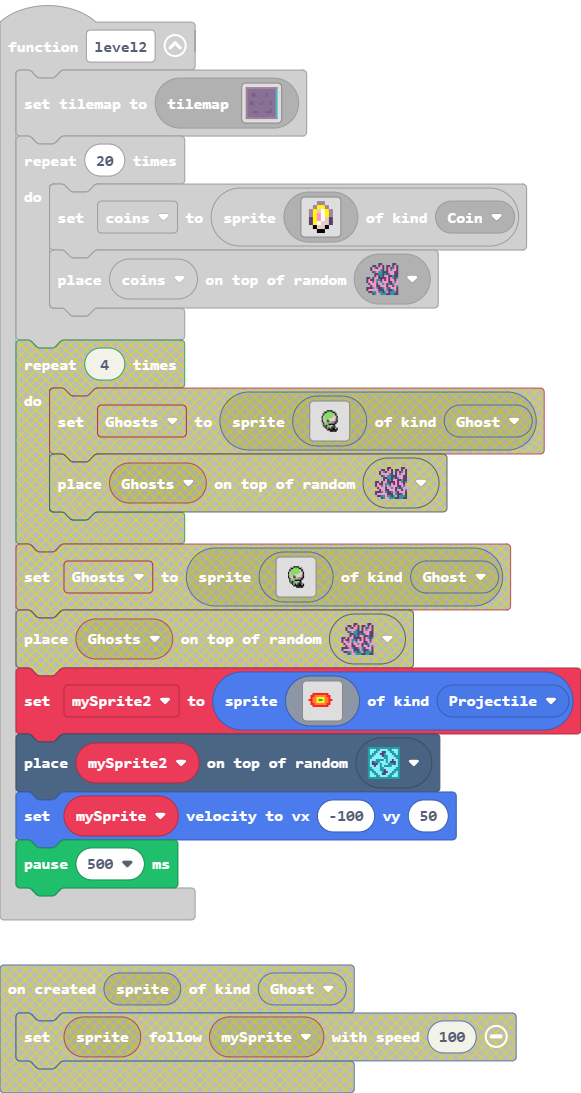
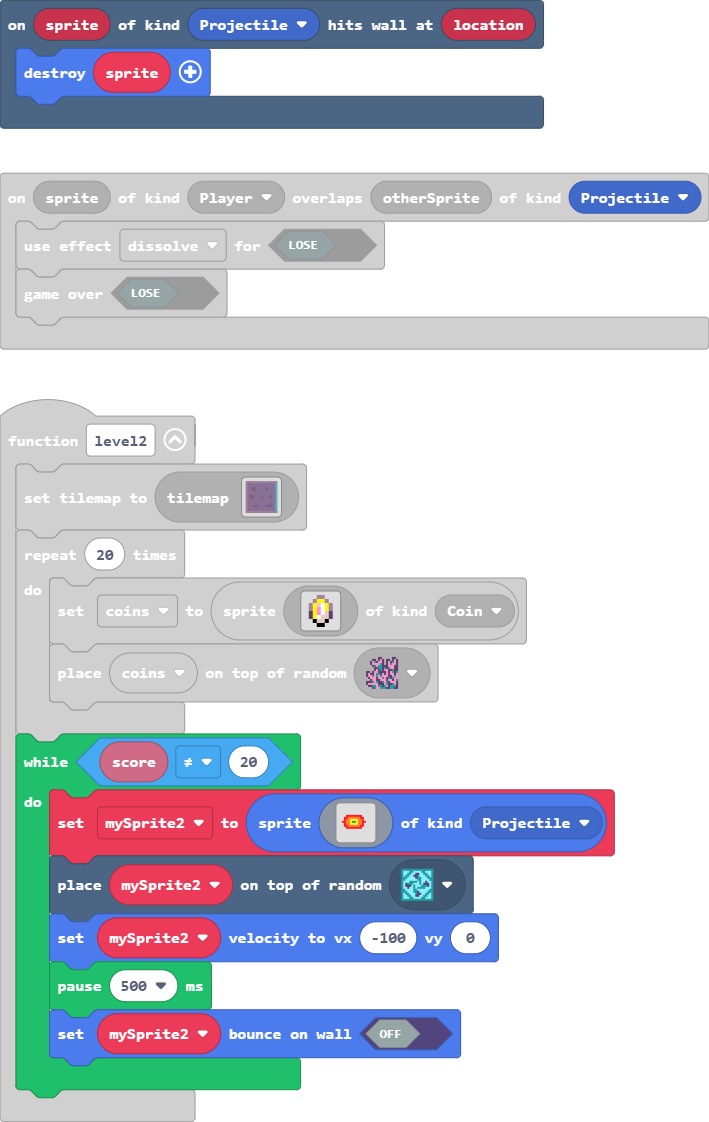
Update main.blocks, main.ts

diff --git a/main.ts b/main.ts
@@ -111,10 +111,6 @@ sprites.onOverlap(SpriteKind.Player, SpriteKind.Coin, function (sprite, otherSpr
         music.play(music.melodyPlayable(music.baDing), music.PlaybackMode.UntilDone)
     }
 })
-sprites.onOverlap(SpriteKind.Player, SpriteKind.Ghost, function (sprite, otherSprite) {
-    game.setGameOverEffect(false, effects.dissolve)
-    game.gameOver(false)
-})
 controller.left.onEvent(ControllerButtonEvent.Pressed, function () {
     while (controller.left.isPressed()) {
         x = mySprite.x
@@ -182,27 +178,30 @@ function level2 () {
             `, SpriteKind.Coin)
         tiles.placeOnRandomTile(coins, sprites.builtin.coral1)
     }
-    mySprite2 = sprites.create(img`
-        . . . . . . . . . . . . . . . . 
-        . . . . . . . . . . . . . . . . 
-        . . . . . . . . . . . . . . . . 
-        . . . . . . . . . . . . . . . . 
-        . . . 2 2 2 2 2 2 2 2 . . . . . 
-        . . 2 2 4 4 4 4 4 4 2 2 . . . . 
-        . . 2 4 4 5 5 5 5 4 4 2 . . . . 
-        . 2 2 4 4 5 6 6 5 4 4 2 2 . . . 
-        . . 2 4 4 5 5 5 5 4 4 2 . . . . 
-        . . 2 2 4 4 4 4 4 4 2 2 . . . . 
-        . . . 2 2 2 2 2 2 2 2 . . . . . 
-        . . . . . . . . . . . . . . . . 
-        . . . . . . . . . . . . . . . . 
-        . . . . . . . . . . . . . . . . 
-        . . . . . . . . . . . . . . . . 
-        . . . . . . . . . . . . . . . . 
-        `, SpriteKind.Projectile)
-    tiles.placeOnRandomTile(mySprite2, sprites.dungeon.collectibleInsignia)
-    mySprite.setVelocity(-100, 50)
-    pause(500)
+    while (info.score() != 20) {
+        mySprite2 = sprites.create(img`
+            . . . . . . . . . . . . . . . . 
+            . . . . . . . . . . . . . . . . 
+            . . . . . . . . . . . . . . . . 
+            . . . . . . . . . . . . . . . . 
+            . . . 2 2 2 2 2 2 2 2 . . . . . 
+            . . 2 2 4 4 4 4 4 4 2 2 . . . . 
+            . . 2 4 4 5 5 5 5 4 4 2 . . . . 
+            . 2 2 4 4 5 6 6 5 4 4 2 2 . . . 
+            . . 2 4 4 5 5 5 5 4 4 2 . . . . 
+            . . 2 2 4 4 4 4 4 4 2 2 . . . . 
+            . . . 2 2 2 2 2 2 2 2 . . . . . 
+            . . . . . . . . . . . . . . . . 
+            . . . . . . . . . . . . . . . . 
+            . . . . . . . . . . . . . . . . 
+            . . . . . . . . . . . . . . . . 
+            . . . . . . . . . . . . . . . . 
+            `, SpriteKind.Projectile)
+        tiles.placeOnRandomTile(mySprite2, sprites.dungeon.collectibleInsignia)
+        mySprite2.setVelocity(-100, 0)
+        pause(500)
+        mySprite2.setBounceOnWall(false)
+    }
 }
 controller.right.onEvent(ControllerButtonEvent.Pressed, function () {
     while (controller.right.isPressed()) {
@@ -255,6 +254,10 @@ controller.right.onEvent(ControllerButtonEvent.Pressed, function () {
         mySprite.y = y
         pause(100)
     }
+})
+sprites.onOverlap(SpriteKind.Player, SpriteKind.Projectile, function (sprite, otherSprite) {
+    game.setGameOverEffect(false, effects.dissolve)
+    game.gameOver(false)
 })
 controller.down.onEvent(ControllerButtonEvent.Pressed, function () {
     while (controller.down.isPressed()) {
@@ -355,6 +358,9 @@ controller.down.onEvent(ControllerButtonEvent.Pressed, function () {
         mySprite.y = y
         pause(100)
     }
+})
+scene.onHitWall(SpriteKind.Projectile, function (sprite, location) {
+    sprites.destroy(sprite)
 })
 sprites.onCreated(SpriteKind.Player, function (sprite) {
     controller.moveSprite(sprite)
